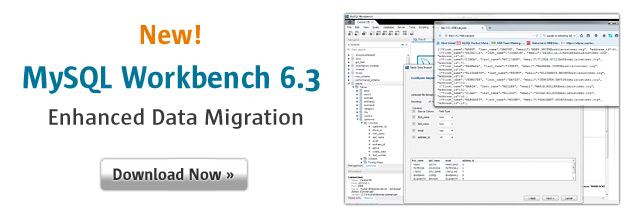
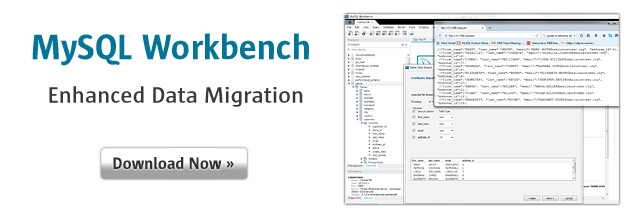
mysqlworkbench 汉化

Changed region(s): [[0.0312, 0.1091, 0.5, 0.6], [0.1562, 0.7091, 0.4062, 0.8727], [0.1562, 0.6545, 0.375, 0.6818]]

diff --git a/mysqlworkbench/index.html b/mysqlworkbench/index.html
@@ -15,13 +15,6 @@
         <script src="https://labs.mysql.com/common/js/polyfills/html5shiv-printshiv-3.7.2.min.js"></script>
         <script src="https://labs.mysql.com/common/js/polyfills/respond-1.4.2.min.js"></script>
     <![endif]-->
-    <script async src="//pagead2.googlesyndication.com/pagead/js/adsbygoogle.js"></script>
-    <script>
-        (adsbygoogle = window.adsbygoogle || []).push({
-            google_ad_client: "ca-pub-2505612542776655",
-            enable_page_level_ads: true
-        });
-    </script>
 </head>
 
 <body class="www zh" style="padding-top: 0px;">
@@ -57,7 +50,7 @@
                     </div>
                     <a class="button nav-button-3" href="https://dev.mysql.com/"><span class="icon-code"></span> 开发人员专区</a>
                     <a class="button nav-button-2" href="https://dev.mysql.com/doc/"><span class="icon-books"></span> 文档</a>
-                    <a class="button nav-button-1" href="/cn/downloads/"><span class="icon-download-thin"></span> 下载</a>
+                    <a class="button nav-button-1" target="mysql_com" href="https://www.mysql.com/cn/downloads/"><span class="icon-download-thin"></span> 下载</a>
                     <div id="l2-search-toggle">
                         <span class="icon-search"></span>
                     </div>
@@ -97,14 +90,13 @@
 
 
                     <div class="page_banner">
-                        <a href="https://dev.mysql.com/downloads/workbench/"><img src="mysql-workbench.jpg" alt="MySQL Workbench - Download Now" width="640" height="220"></a>
+                        <a href="https://dev.mysql.com/downloads/workbench/"><img src="mysql-workbench.jpg" alt="MySQL Workbench - 马上下载" width="640" height="220"></a>
                     </div>
                     <div class="page-banner-alt">
-                        <h1 class="page-title">MySQL Workbench<br><span class="page-subtitle"><a href="https://dev.mysql.com/downloads/workbench/">Download Now »</a></span></h1>
+                        <h1 class="page-title">MySQL Workbench<br><span class="page-subtitle"><a href="https://dev.mysql.com/downloads/workbench/">马上下载 »</a></span></h1>
                     </div>
 
-                    <p>MySQL Workbench is a unified visual tool for database architects, developers, and DBAs. MySQL Workbench provides data modeling, SQL development, and comprehensive administration tools for server configuration, user administration,
-                        backup, and much more. MySQL Workbench is available on Windows, Linux and Mac OS X.</p>
+                    <p>MySQL Workbench是面向数据库架构师，开发人员和DBA的统一可视工具。MySQL Workbench提供了数据建模，SQL开发以及用于服务器配置，用户管理，备份等的综合管理工具。MySQL Workbench在Windows，Linux和Mac OS X上可用。</p>
 
                     <div class="screenshot">
                         <h4>MySQL Workbench Home</h4>
@@ -132,38 +124,32 @@
 
 
                     <div class="pageMainColumn">
-                        <h2>Design</h2>
-                        <p>MySQL Workbench enables a DBA, developer, or data architect to visually design, model, generate, and manage databases. It includes everything a data modeler needs for creating complex ER models, forward and reverse engineering,
-                            and also delivers key features for performing difficult change management and documentation tasks that normally require much time and effort.<br><a href="/cn/products/workbench/design/">Learn More&nbsp;»</a></p>
+                        <h2><font style="vertical-align: inherit;"><font style="vertical-align: inherit;">设计</font></font></h2>
+                        <p><font style="vertical-align: inherit;"><font style="vertical-align: inherit;">MySQL Workbench使DBA，开发人员或数据架构师能够可视化地设计，建模，生成和管理数据库。</font><font style="vertical-align: inherit;">它包括数据建模人员创建复杂的ER模型，进行正向和反向工程所需的一切，还提供了用于执行通常需要大量时间和精力的困难的变更管理和文档编制任务的关键功能。</font></font><br><a target="mysql_com" href="https://www.mysql.com/products/workbench/design/"><font style="vertical-align: inherit;"><font style="vertical-align: inherit;">学到更多 ”</font></font></a></p>
 
-                        <h2>Develop</h2>
-                        <p>MySQL Workbench delivers visual tools for creating, executing, and optimizing SQL queries. The SQL Editor provides color syntax highlighting, auto-complete, reuse of SQL snippets, and execution history of SQL. The Database Connections
-                            Panel enables developers to easily manage standard database connections, including MySQL Fabric. The Object Browser provides instant access to database schema and objects.<br><a href="/cn/products/workbench/dev/">Learn more&nbsp;»</a></p>
+                        <h2><font style="vertical-align: inherit;"><font style="vertical-align: inherit;">开发</font></font></h2>
+                        <p><font style="vertical-align: inherit;"><font style="vertical-align: inherit;">MySQL Workbench提供了用于创建，执行和优化SQL查询的可视化工具。</font><font style="vertical-align: inherit;">SQL编辑器提供了高亮的颜色语法，自动完成功能，SQL代码段的重用以及SQL的执行历史记录。</font><font style="vertical-align: inherit;">数据库连接面板使开发人员可以轻松管理标准数据库连接，包括MySQL Fabric。</font><font style="vertical-align: inherit;">对象浏览器提供对数据库架构和对象的即时访问。</font></font><br><a target="mysql_com" href="https://www.mysql.com/products/workbench/dev/"><font style="vertical-align: inherit;"><font style="vertical-align: inherit;">学到更多 ”</font></font></a></p>
 
-                        <h2>Administer</h2>
-                        <p>MySQL Workbench provides a visual console to easily administer MySQL environments and gain better visibility into databases. Developers and DBAs can use the visual tools for configuring servers, administering users, performing
-                            backup and recovery, inspecting audit data, and viewing database health.<br><a href="/cn/products/workbench/admin/">Learn more&nbsp;»</a></p>
+                        <h2><font style="vertical-align: inherit;"><font style="vertical-align: inherit;">管理</font></font></h2>
+                        <p><font style="vertical-align: inherit;"><font style="vertical-align: inherit;">MySQL Workbench提供了一个可视控制台，可以轻松地管理MySQL环境并更好地查看数据库。</font><font style="vertical-align: inherit;">开发人员和DBA可以使用可视化工具来配置服务器，管理用户，执行备份和恢复，检查审核数据以及查看数据库运行状况。</font></font><br><a target="mysql_com" href="https://www.mysql.com/products/workbench/admin/"><font style="vertical-align: inherit;"><font style="vertical-align: inherit;">学到更多 ”</font></font></a></p>
 
-                        <h2>Visual Performance Dashboard</h2>
-                        <p>MySQL Workbench provides a suite of tools to improve the performance of MySQL applications. DBAs can quickly view key performance indicators using the Performance Dashboard. Performance Reports provide easy identification and access
-                            to IO hotspots, high cost SQL statements, and more. Plus, with 1 click, developers can see where to optimize their query with the improved and easy to use Visual Explain Plan.<br><a href="/cn/products/workbench/performance/">Learn More&nbsp;»</a></p>
+                        <h2><font style="vertical-align: inherit;"><font style="vertical-align: inherit;">视觉效果仪表板</font></font></h2>
+                        <p><font style="vertical-align: inherit;"><font style="vertical-align: inherit;">MySQL Workbench提供了一套工具来改善MySQL应用程序的性能。</font><font style="vertical-align: inherit;">DBA可以使用性能仪表板快速查看关键性能指标。</font><font style="vertical-align: inherit;">通过性能报告，可以轻松识别和访问IO热点，高成本SQL语句等。</font><font style="vertical-align: inherit;">另外，只需单击一下，开发人员就可以看到在哪里可以使用经过改进且易于使用的Visual Explain Plan优化查询。</font></font><br><a target="mysql_com" href="https://www.mysql.com/products/workbench/performance/"><font style="vertical-align: inherit;"><font style="vertical-align: inherit;">学到更多 ”</font></font></a></p>
 
-                        <h2>Database Migration</h2>
-                        <p>MySQL Workbench now provides a complete, easy to use solution for migrating Microsoft SQL Server, Microsoft Access, Sybase ASE, PostreSQL, and other RDBMS tables, objects and data to MySQL. Developers and DBAs can quickly and easily
-                            convert existing applications to run on MySQL both on Windows and other platforms. Migration also supports migrating from earlier versions of MySQL to the latest releases.<br><a href="/cn/products/workbench/migrate/">Learn more&nbsp;»</a></p>
-                    </div>
+                        <h2><font style="vertical-align: inherit;"><font style="vertical-align: inherit;">数据库迁移</font></font></h2>
+                        <p><font style="vertical-align: inherit;"><font style="vertical-align: inherit;">MySQL Workbench现在提供了一个完整，易于使用的解决方案，用于将Microsoft SQL Server，Microsoft Access，Sybase ASE，PostreSQL和其他RDBMS表，对象和数据迁移到MySQL。</font><font style="vertical-align: inherit;">开发人员和DBA可以快速轻松地将现有应用程序转换为在Windows和其他平台上的MySQL上运行。</font><font style="vertical-align: inherit;">迁移还支持从早期版本的MySQL迁移到最新版本。</font></font><br><a target="mysql_com" href="https://www.mysql.com/products/workbench/migrate/"><font style="vertical-align: inherit;"><font style="vertical-align: inherit;">学到更多 ”</font></font></a></p></div>
 
-                    <h2>Additional Resources</h2>
+                    <h2>其他资源</h2>
 
                     <ul>
-                        <li><a href="http://www.youtube.com/watch?v=0tPtxpDCJTA">Video Tutorial: MySQL Enterprise Backups using MySQL Workbench</a></li>
-                        <li><a href="http://www.youtube.com/watch?v=X_umYKqKaF0">Video Tutorial: MySQL Workbench</a></li>
-                        <li><a href="/cn/products/workbench/features.html">Features &amp; Benefits</a></li>
-                        <li><a href="/cn/why-mysql/white-papers/mysql-workbench-database-design-development-administration/">White Paper: MySQL Workbench: Database Design. Development. Administration. Migration.</a></li>
-                        <li><a href="/cn/why-mysql/white-papers/guide-to-migrating-from-sql-server-to-mysql/">White Paper: Migrating from Microsoft SQL Server to MySQL</a></li>
-                        <li><a href="http://mysqlworkbench.org/">MySQL Workbench Blog</a></li>
-                        <li><a href="/cn/trials/">Download MySQL Workbench Enterprise Edition</a></li>
-                    </ul>
+                        <li><a href="http://www.youtube.com/watch?v=0tPtxpDCJTA"><font style="vertical-align: inherit;"><font style="vertical-align: inherit;">视频教程：使用MySQL Workbench的MySQL企业备份</font></font></a></li>
+                        <li><a href="http://www.youtube.com/watch?v=X_umYKqKaF0"><font style="vertical-align: inherit;"><font style="vertical-align: inherit;">视频教程：MySQL Workbench</font></font></a></li>
+                        <li><a href="https://www.mysql.com/products/workbench/features.html"><font style="vertical-align: inherit;"><font style="vertical-align: inherit;">特点与优势</font></font></a></li>
+                        <li><a href="https://www.mysql.com/why-mysql/white-papers/mysql-workbench-database-design-development-administration/"><font style="vertical-align: inherit;"><font style="vertical-align: inherit;">白皮书：MySQL Workbench：数据库设计。</font><font style="vertical-align: inherit;">发展。</font><font style="vertical-align: inherit;">管理。</font><font style="vertical-align: inherit;">移民。</font></font></a></li>
+                        <li><a href="https://www.mysql.com/why-mysql/white-papers/guide-to-migrating-from-sql-server-to-mysql/"><font style="vertical-align: inherit;"><font style="vertical-align: inherit;">白皮书：从Microsoft SQL Server迁移到MySQL</font></font></a></li>
+                        <li><a href="http://mysqlworkbench.org/"><font style="vertical-align: inherit;"><font style="vertical-align: inherit;">MySQL Workbench博客</font></font></a></li>
+                        <li><a href="https://www.mysql.com/trials/"><font style="vertical-align: inherit;"><font style="vertical-align: inherit;">下载MySQL Workbench企业版</font></font></a></li>
+                      </ul>
 
                 </div>
 
